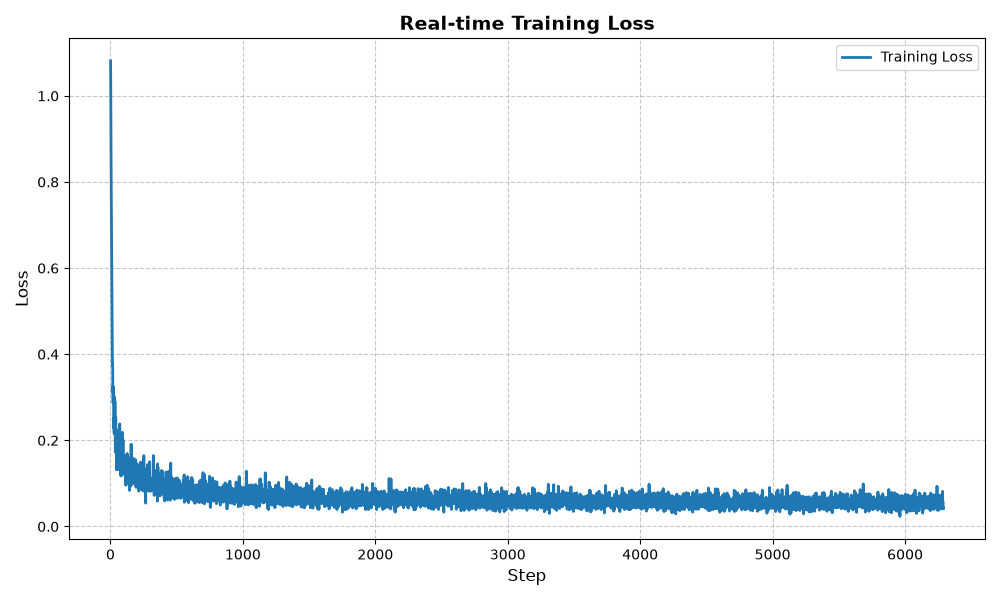
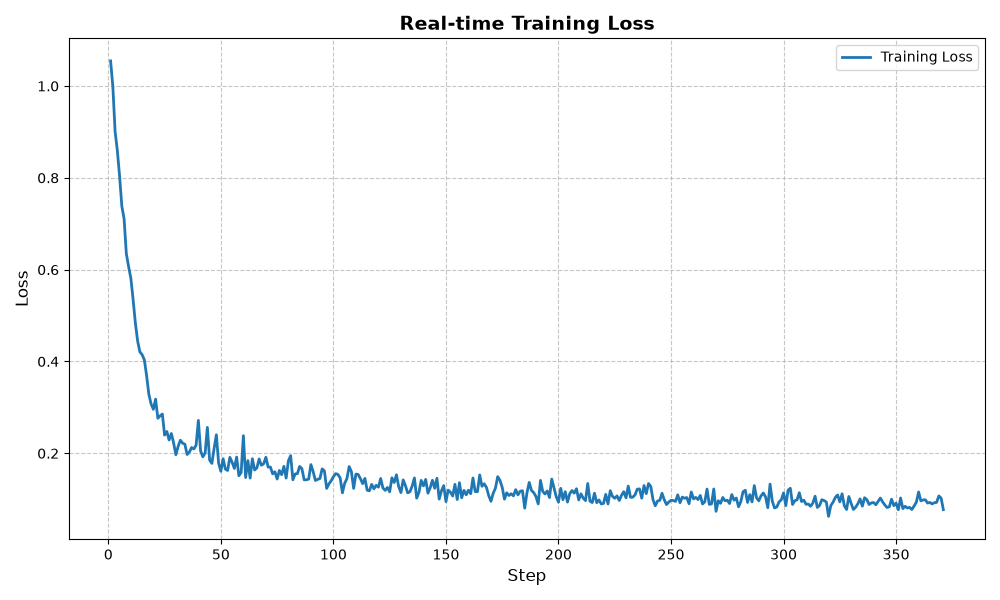
attention modification plot

diff --git a/plot_loss_remote.py b/plot_loss_remote.py
@@ -6,7 +6,7 @@ matplotlib.use('Agg')
 import matplotlib.pyplot as plt
 
 # 設定檔案路徑
-LOG_FILE_PATH = 'runs/train_100k/train.jsonl'
+LOG_FILE_PATH = 'runs/train_attention_100k/train.jsonl'
 OUTPUT_IMAGE_PATH = 'training_loss_realtime.png'  # 輸出的圖片名稱
 
 steps = []